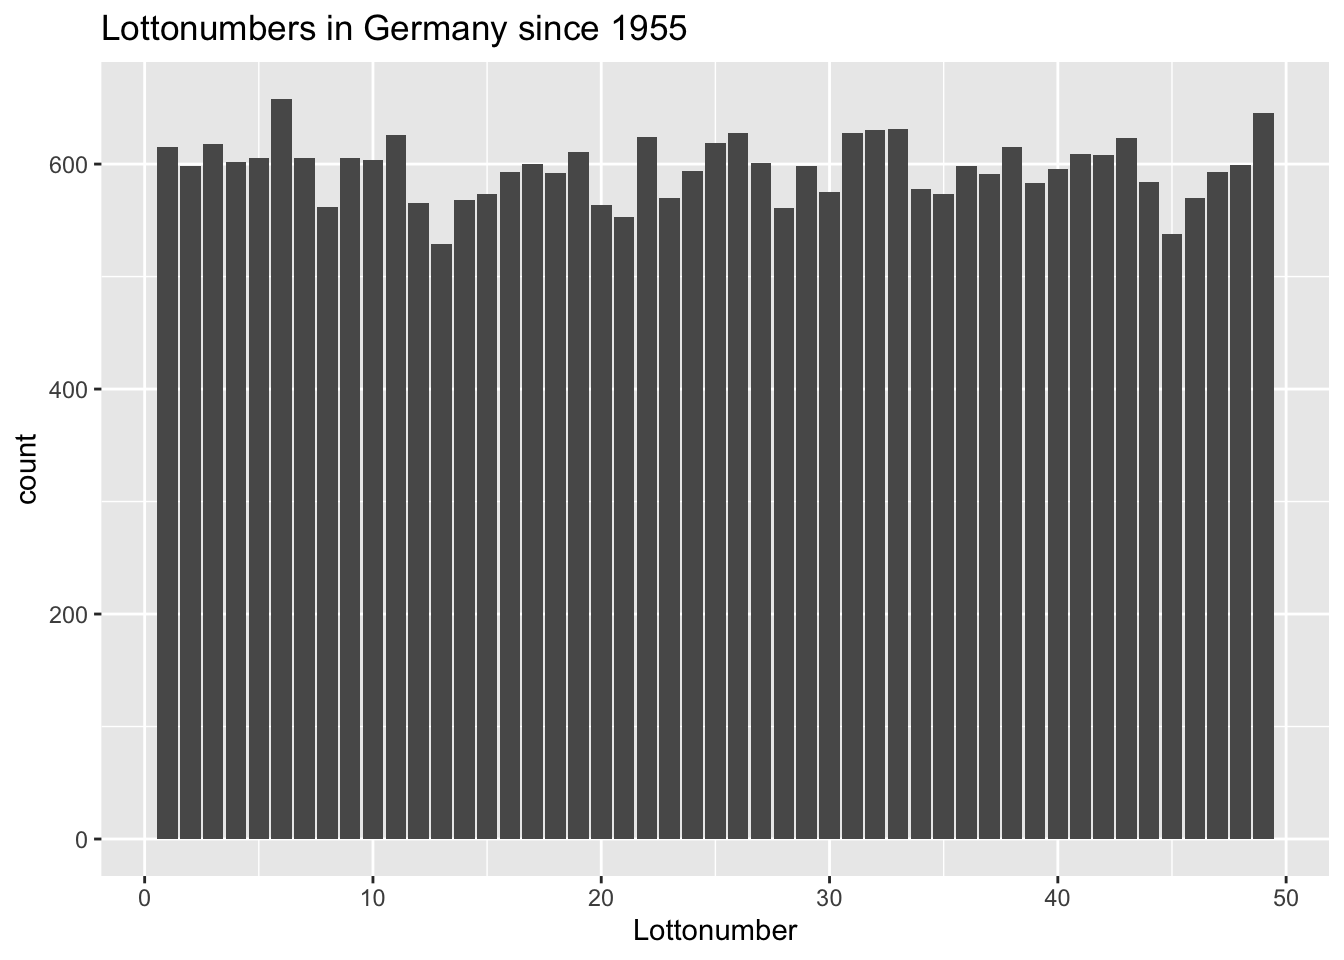
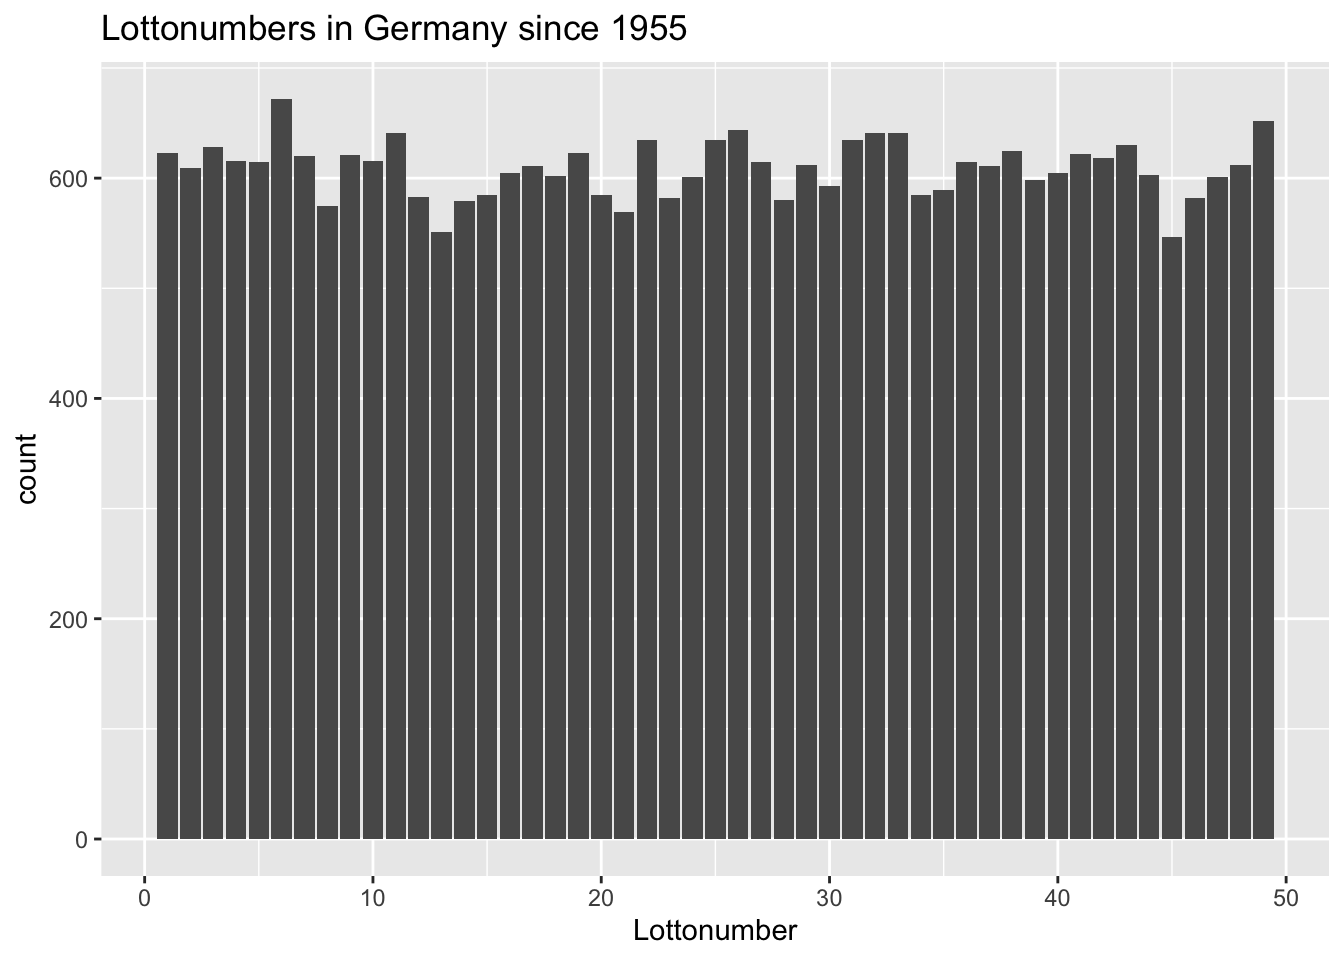
add 2025 analysis

diff --git a/README.md b/README.md
@@ -1,7 +1,7 @@
 
 <!-- README.md is generated from README.Rmd. Please edit that file -->
 
-# API for the lotto numbers of the german lottery (1955-2025)
+# API for the lotto numbers of the german lottery (1955-2026)
 
 [![Project Status: Active – The project has reached a stable, usable
 state and is being actively
@@ -35,8 +35,7 @@ data <- jsonlite::fromJSON("https://johannesfriedrich.github.io/LottoNumberArchi
 
 lottonumbers_count <- data |> 
   dplyr::filter(variable == "Lottozahl") |> 
-  dplyr::group_by(value) |> 
-  dplyr::summarise(count = dplyr::n())
+  dplyr::count(value, name="count")
 ```
 
 ``` r
@@ -44,15 +43,13 @@ lottonumbers_count |>
   dplyr::arrange(dplyr::desc(count)) |>  
   dplyr::top_n(5)
 ## Selecting by count
-## # A tibble: 6 × 2
 ##   value count
-##   <int> <int>
-## 1     6   658
-## 2    49   645
-## 3    33   631
-## 4    32   630
-## 5    26   628
-## 6    31   628
+## 1     6   672
+## 2    49   652
+## 3    26   644
+## 4    11   641
+## 5    32   641
+## 6    33   641
 ```
 
 Now we want to summarise all numbers from 1-49 and their appearance.
@@ -78,10 +75,7 @@ superzahl <- data |>
          Day = weekdays(date),
          year = lubridate::year(date)) |> 
   dplyr::filter(year >= 2001) |> 
-  dplyr::group_by(value, Day) |>  
-  dplyr::summarise(count = dplyr::n())
-## `summarise()` has grouped output by 'value'. You can override using the
-## `.groups` argument.
+  dplyr::count(value, Day, name="count")
 ```
 
 ``` r
@@ -94,26 +88,25 @@ ggplot(superzahl, aes(value, count, fill = Day)) +
 
 <img src="README_figs/README-unnamed-chunk-5-1.png" width="672" style="display: block; margin: auto;" />
 
-What were the numbers most chosen in 2024?
+What were the numbers most chosen in 2025?
 
 ``` r
 data |>  
   dplyr::filter(variable == "Lottozahl") |> 
   dplyr::mutate(date = lubridate::dmy(date),
          year = lubridate::year(date)) |>
-  dplyr::filter(year == 2024) |> 
+  dplyr::filter(year == 2025) |> 
   dplyr::group_by(value) |>  
   dplyr::summarise(count = dplyr::n()) |> 
   dplyr::slice_max(count, n = 5)
-## # A tibble: 6 × 2
+## # A tibble: 5 × 2
 ##   value count
 ##   <int> <int>
-## 1     8    24
-## 2     5    22
-## 3     9    22
-## 4    40    22
-## 5    10    18
-## 6    30    18
+## 1    13    22
+## 2    20    21
+## 3    37    20
+## 4    28    19
+## 5    44    19
 ```
 
 ### Python
@@ -131,10 +124,10 @@ res = data[data.variable == "Lottozahl"].groupby("value")["value"].count().sort_
 
 print(res.head(5))
 ## value
-## 6     658
-## 49    645
-## 33    631
-## 32    630
-## 31    628
+## 6     672
+## 49    652
+## 26    644
+## 11    641
+## 32    641
 ## Name: value, dtype: int64
 ```
